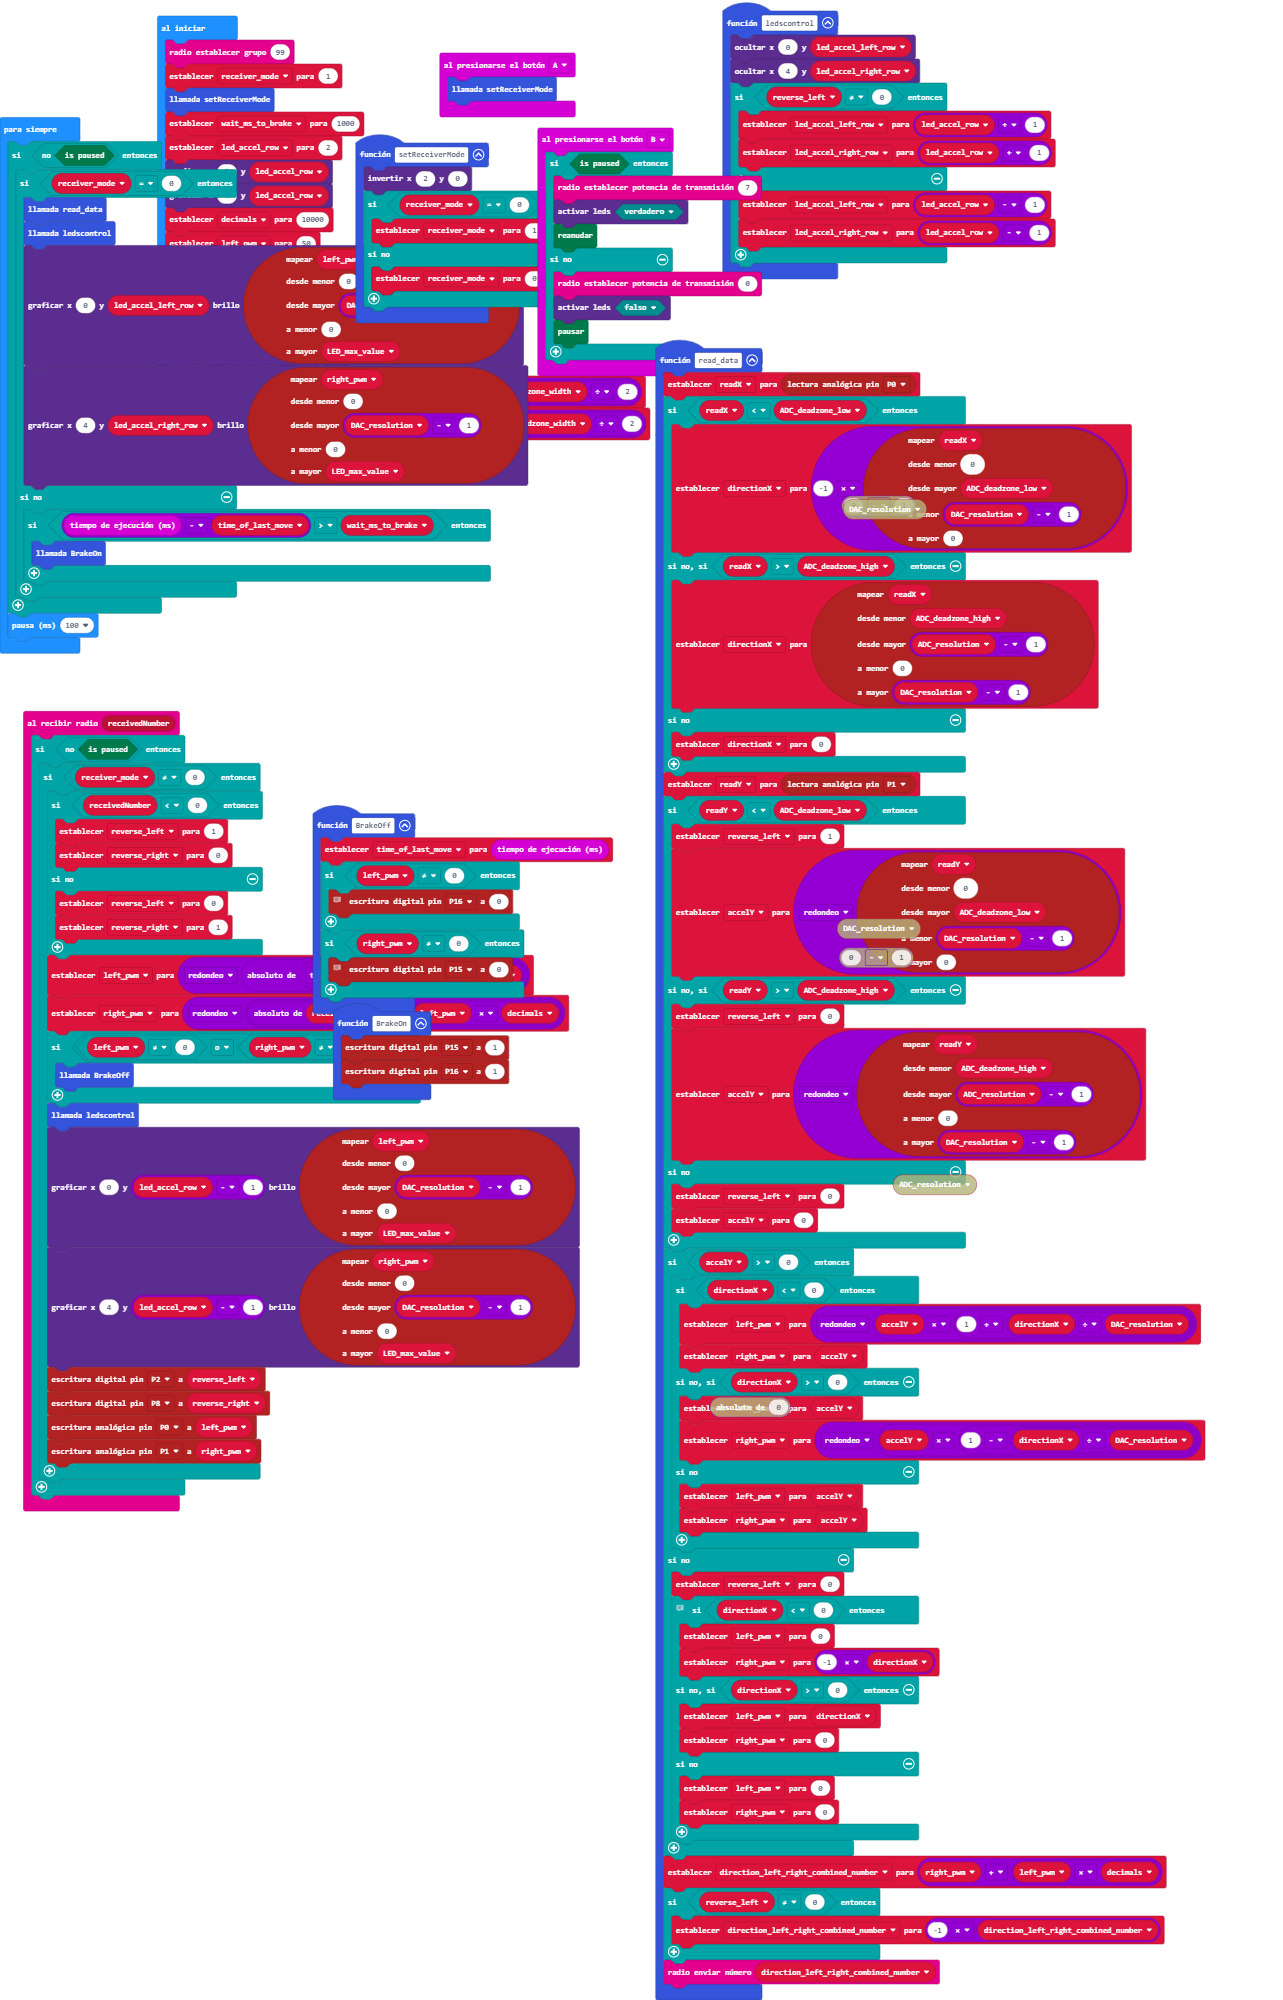
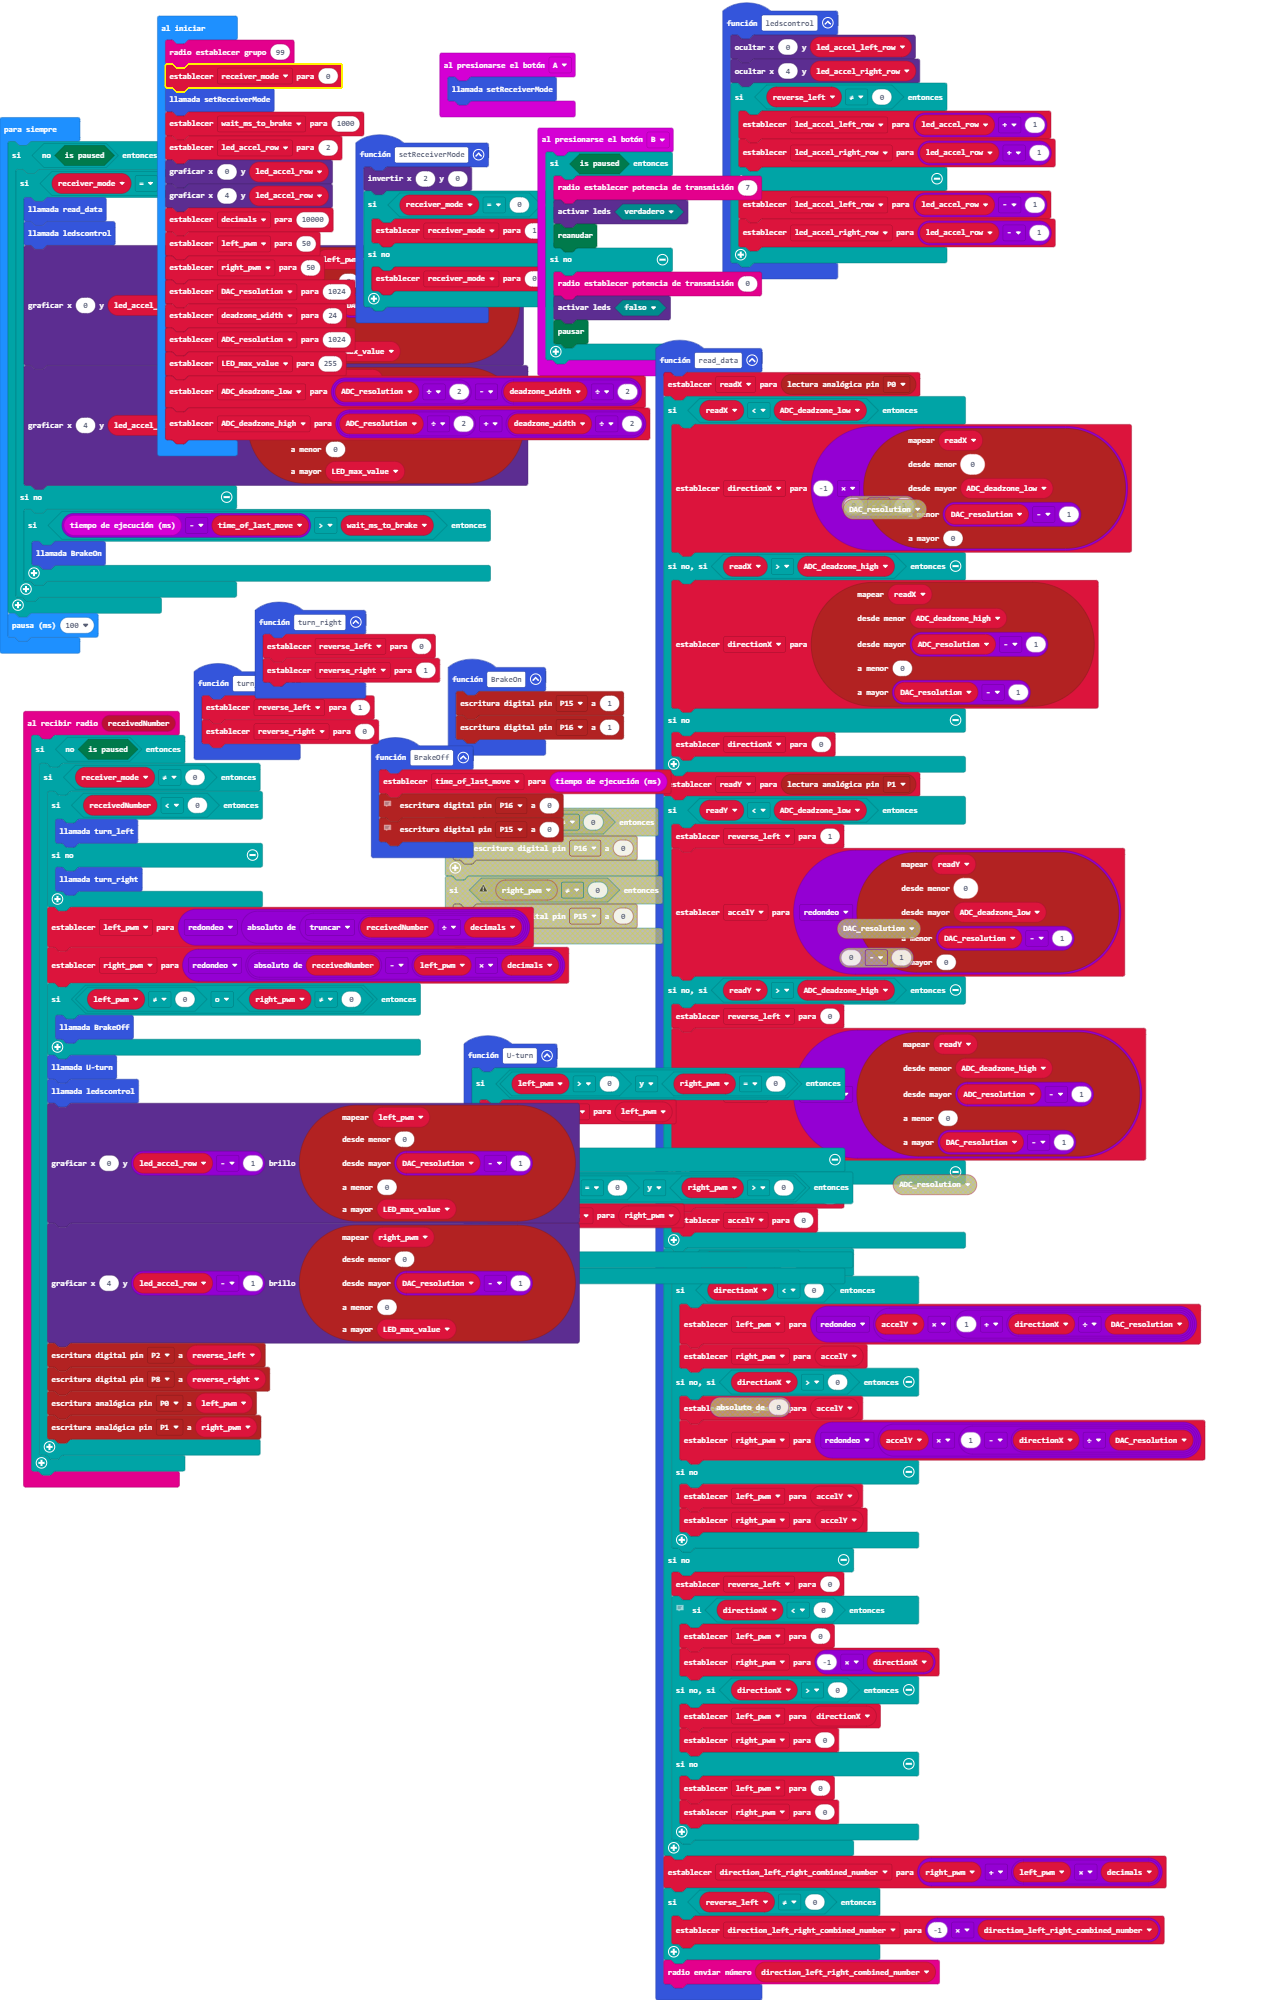
uturn left -> right forward and left backward

Changed region(s): [[0.0, 0.279, 0.6859, 0.775], [0.1247, 0.062, 0.4365, 0.248]]

diff --git a/main.ts b/main.ts
@@ -1,29 +1,24 @@
 function BrakeOff () {
     time_of_last_move = input.runningTime()
-    if (left_pwm != 0) {
-        // Brake off
-        pins.digitalWritePin(DigitalPin.P16, 0)
-    }
-    if (right_pwm != 0) {
-        // Brake off
-        pins.digitalWritePin(DigitalPin.P15, 0)
-    }
+    // Brake off
+    pins.digitalWritePin(DigitalPin.P16, 0)
+    // Brake off
+    pins.digitalWritePin(DigitalPin.P15, 0)
 }
 radio.onReceivedNumber(function (receivedNumber) {
     if (!(game.isPaused())) {
         if (receiver_mode != 0) {
             if (receivedNumber < 0) {
-                reverse_left = 1
-                reverse_right = 0
+                turn_left()
             } else {
-                reverse_left = 0
-                reverse_right = 1
+                turn_right()
             }
             left_pwm = Math.round(Math.abs(Math.trunc(receivedNumber / decimals)))
             right_pwm = Math.round(Math.abs(receivedNumber) - left_pwm * decimals)
             if (left_pwm != 0 || right_pwm != 0) {
                 BrakeOff()
             }
+            Uturn()
             ledscontrol()
             led.plotBrightness(0, led_accel_row - 1, pins.map(
             left_pwm,
@@ -57,6 +52,17 @@ function setReceiverMode () {
 input.onButtonPressed(Button.A, function () {
     setReceiverMode()
 })
+function Uturn () {
+    if (left_pwm > 0 && right_pwm == 0) {
+        right_pwm = left_pwm
+        turn_right()
+    } else {
+        if (left_pwm == 0 && right_pwm > 0) {
+            left_pwm = right_pwm
+            turn_left()
+        }
+    }
+}
 function read_data () {
     readX = pins.analogReadPin(AnalogPin.P0)
     if (readX < ADC_deadzone_low) {
@@ -137,6 +143,10 @@ function BrakeOn () {
     pins.digitalWritePin(DigitalPin.P15, 1)
     pins.digitalWritePin(DigitalPin.P16, 1)
 }
+function turn_left () {
+    reverse_left = 1
+    reverse_right = 0
+}
 input.onButtonPressed(Button.B, function () {
     if (game.isPaused()) {
         radio.setTransmitPower(7)
@@ -159,6 +169,10 @@ function ledscontrol () {
         led_accel_right_row = led_accel_row - 1
     }
 }
+function turn_right () {
+    reverse_left = 0
+    reverse_right = 1
+}
 let led_accel_right_row = 0
 let led_accel_left_row = 0
 let direction_left_right_combined_number = 0
@@ -180,7 +194,7 @@ let decimals = 0
 let led_accel_row = 0
 let receiver_mode = 0
 radio.setGroup(99)
-receiver_mode = 1
+receiver_mode = 0
 setReceiverMode()
 let wait_ms_to_brake = 1000
 led_accel_row = 2
